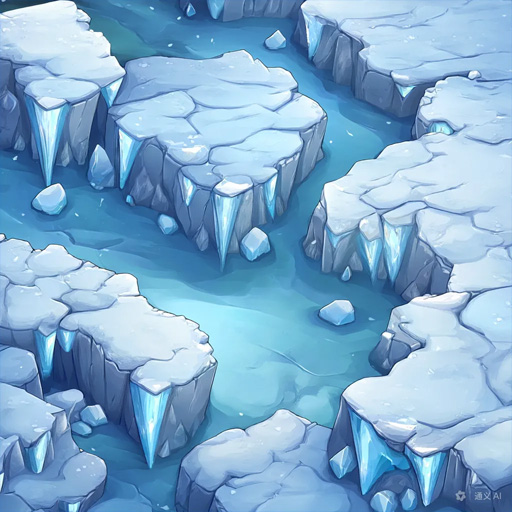
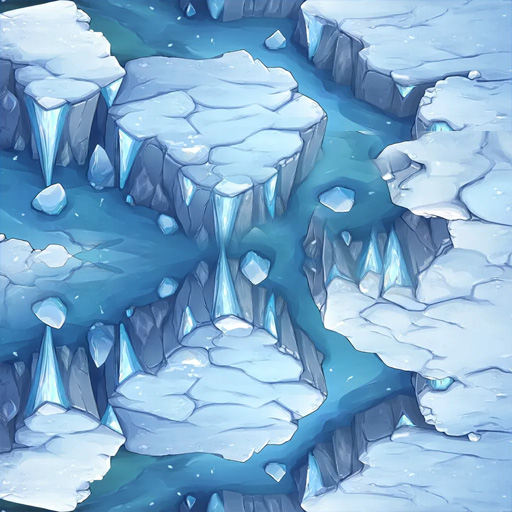
增加多个背景

diff --git a/js/base/levelManager.js b/js/base/levelManager.js
@@ -9,6 +9,16 @@ export default class LevelManager {
             { enemies: 13, enemyType: 'hard', interval: 22, background: 'images/bg5.jpg' },
             { enemies: 15, enemyType: 'hard', interval: 20, background: 'images/bg6.jpg' },
             { enemies: 17, enemyType: 'hard', interval: 18, background: 'images/bg7.jpg' },
+            { enemies: 17, enemyType: 'hard', interval: 18, background: 'images/bg8.jpg' },
+            { enemies: 17, enemyType: 'hard', interval: 18, background: 'images/bg9.jpg' },
+            { enemies: 17, enemyType: 'hard', interval: 18, background: 'images/bg10.jpg' },
+            { enemies: 17, enemyType: 'hard', interval: 18, background: 'images/bg11.jpg' },
+            { enemies: 17, enemyType: 'hard', interval: 18, background: 'images/bg12.jpg' },
+            { enemies: 17, enemyType: 'hard', interval: 18, background: 'images/bg13.jpg' },
+            { enemies: 17, enemyType: 'hard', interval: 18, background: 'images/bg14.jpg' },
+            { enemies: 17, enemyType: 'hard', interval: 18, background: 'images/bg15.jpg' },
+            { enemies: 17, enemyType: 'hard', interval: 18, background: 'images/bg16.jpg' },
+            { enemies: 17, enemyType: 'hard', interval: 18, background: 'images/bg17.jpg' },
             // 可以继续添加更多关卡
         ];
     }
@@ -25,6 +35,7 @@ export default class LevelManager {
     }
 
     reset() {
-        this.currentLevel = 0; // 重置到第一个关卡
+        this.currentLevel =0; // 重置到第一个关卡
+        GameGlobal.databus.currentLevel = 1
     }
 } 

diff --git a/js/runtime/gameinfo.js b/js/runtime/gameinfo.js
@@ -28,6 +28,7 @@ export default class GameInfo extends Emitter {
 
   render(ctx) {
     this.renderGameScore(ctx, GameGlobal.databus.score); // 绘制当前分数
+    this.renderCurrentLevel(ctx, GameGlobal.databus.currentLevel); // 绘制当前关卡
 
     // 游戏结束时停止帧循环并显示游戏结束画面
     if (GameGlobal.databus.isGameOver) {
@@ -45,7 +46,12 @@ export default class GameInfo extends Emitter {
 
   renderGameScore(ctx, score) {
     this.setFont(ctx);
-    ctx.fillText(score, 10, 30);
+    ctx.fillText(`得分:${score}`, 10, 30);
+  }
+
+  renderCurrentLevel(ctx, level) {
+    this.setFont(ctx);
+    ctx.fillText(`当前关卡: ${level}`, 10, 60); // 在分数下方绘制当前关卡
   }
 
   saveScoreToBmob(score) {

diff --git a/js/runtime/background.js b/js/runtime/background.js
@@ -12,7 +12,8 @@ const BACKGROUND_SPEED = 2;
  */
 export default class BackGround extends Sprite {
   constructor() {
-    const bgIndex = Math.floor(Math.random() * 7) + 1;
+    // const bgIndex = Math.floor(Math.random() * 7) + 1;
+    const bgIndex = 5
     BACKGROUND_IMAGE_SRC = `images/bg${bgIndex}.jpg`;
     super(BACKGROUND_IMAGE_SRC, BACKGROUND_WIDTH, BACKGROUND_HEIGHT);
     this.top = 0;

diff --git a/js/main.js b/js/main.js
@@ -87,6 +87,7 @@ export default class Main {
 
   startLevel() {
     const level = this.levelManager.getCurrentLevel();
+    GameGlobal.databus.currentLevel = this.levelManager.currentLevel + 1
     console.log(`开始关卡 ${this.levelManager.currentLevel + 1}: 敌人数量 ${level.enemies}`);
     
     // 设置背景

diff --git a/js/databus.js b/js/databus.js
@@ -13,6 +13,7 @@ export default class DataBus {
   animations = []; // 存储动画
   frame = 0; // 当前帧数
   score = 0; // 当前分数
+  currentLevel = 1 //当前关卡
   isGameOver = false; // 游戏是否结束
   pool = new Pool(); // 初始化对象池
 

diff --git a/README.md b/README.md
@@ -1,8 +1,35 @@
 # 小程序飞机大战
 
-示例相关说明查阅[新手教程](https://developers.weixin.qq.com/minigame/dev/guide/develop/start.html)
+一个经典的飞机射击类微信小游戏，玩家通过控制飞机躲避敌机并发射子弹击落敌机获得分数。
 
-## 源码目录介绍
+## 游戏特色
+
+- 经典的飞机射击玩法
+- 多关卡难度递进
+- 实时分数显示
+- 流畅的游戏画面
+- 打击音效反馈
+
+
+## 功能特性
+
+- **关卡系统**：游戏包含多个关卡，每个关卡的敌机数量和类型不同。
+- **健康游戏忠告**：在游戏开始时显示健康游戏忠告。
+- **碰撞检测**：实现子弹与敌机、玩家与敌机的碰撞检测。
+- **得分系统**：玩家击毁敌机后获得分数，并在游戏结束时保存得分。
+- **背景切换**：每个关卡完成后切换背景。
+
+
+## 玩法说明
+
+1. 触摸屏幕任意位置开始游戏
+2. 手指滑动控制飞机移动
+3. 自动发射子弹攻击敌机
+4. 击中敌机获得分数
+5. 碰到敌机游戏结束
+6. 查看得分并可重新开始
+
+## 项目结构
 
 ```
 ├── audio                                      // 音频资源
@@ -33,11 +60,89 @@
 └── project.private.config.json                // 项目个人配置
 ```
 
-## 引入 Bmob SDK
+## 代码说明
 
-```
-// 引入 Bmob SDK
-import Bmob from './libs/Bmob-1.0.0.min.js'; // 请根据实际路径调整
+- **Main 类**：游戏的主控制类，负责初始化游戏、管理关卡和处理游戏逻辑。
+- **LevelManager 类**：管理游戏的关卡信息，包括当前关卡、敌机数量和背景设置。
+- **BackGround 类**：负责背景的绘制和切换。
+- **GameInfo 类**：负责游戏UI的显示，包括得分和当前关卡信息。
 
-// 初始化 Bmob
+
+## 技术实现
+
+- 使用 Canvas 2D 进行游戏渲染
+- 对象池技术优化性能
+- 帧动画系统
+- 碰撞检测系统
+- 全局音效管理
+- Bmob 后端云记录分数
+
+## 开发环境
+
+1. 微信开发者工具
+
+## 本地运行
+
+1. 克隆项目
+2. 使用微信开发者工具打开项目
+3. 配置 AppID（可使用测试号）
+4. 编译运行
+
+## 配置说明
+
+### 游戏配置
+在 `databus.js` 中可以调整以下参数：
+- 游戏难度
+- 敌机生成频率
+- 子弹发射频率
+- 初始生命值等
+
+### 后端配置
+如需使用后端云功能，需要在项目中配置 Bmob：
+```javascript
+// 在 app.js 中配置
 Bmob.initialize("您的应用ID", "您的REST API密钥");
+```
+
+## 开发建议
+
+1. 游戏素材建议使用小尺寸图片，优化加载速度
+2. 注意适配不同尺寸的手机屏幕
+3. 控制对象池大小，避免内存占用过大
+4. 优化碰撞检测频率，提高性能
+
+## 常见问题
+
+1. 游戏无法播放声音
+   - 检查是否获取音频播放权限
+   - 确认音频文件是否正确加载
+
+2. 游戏卡顿
+   - 检查对象池使用情况
+   - 优化图片资源大小
+   - 降低敌机生成频率
+
+## 版本历史
+
+- v1.0.0
+  - 基础游戏功能
+  - 分数系统
+  - 音效系统
+  - 关卡功能
+
+## 后续计划
+
+- [ ] 添加多种敌机类型
+- [ ] 增加道具系统
+- [ ] 添加技能系统
+- [ ] 优化游戏画面
+- [ ] 添加新手引导
+
+## 参考资料
+
+- [微信小游戏开发文档](https://developers.weixin.qq.com/minigame/dev/guide/)
+- [Canvas 2D 教程](https://developer.mozilla.org/zh-CN/docs/Web/API/Canvas_API)
+
+## 许可证
+
+本项目采用 MIT 许可证
